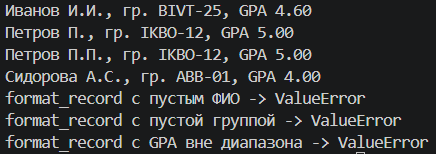
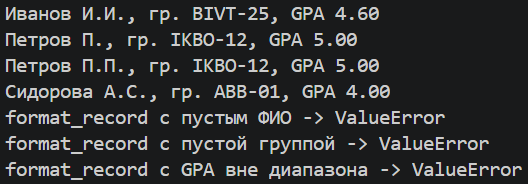
Выполнена лабораторная работа 2, доработано

diff --git a/src/lab02/matrix.py b/src/lab02/matrix.py
@@ -1,21 +1,23 @@
-def check_matrix(m):
-    c = len(m[0])
-    for i in range(len(m)):
-        if len(m[i]) != c:
-            raise ValueError
+def check_matrix(mat):
+    """Проверяет, что матрица прямоугольная (все строки одной длины). Иначе -> ValueError."""
+    c = len(mat[0])
+    for i in range(len(mat)):
+        if len(mat[i]) != c:
+            raise ValueError("матрица «рваная»")
 
 # === 1 ===
-def transpose(m):
-    if len(m) == 0:
+def transpose(mat: list[list[float | int]]) -> list[list]:
+    """Транспонирует матрицу (меняет строки и столбцы местами). Пустая матрица -> []."""
+    if len(mat) == 0:
         return []
-    check_matrix(m)
+    check_matrix(mat)
     t = []
-    num_rows = len(m)
-    num_cols = len(m[0])
+    num_rows = len(mat)
+    num_cols = len(mat[0])
     for j in range(num_cols):
         new_row = []
         for i in range(num_rows):
-            new_row.append(m[i][j])
+            new_row.append(mat[i][j])
         t.append(new_row)
     return t
 
@@ -23,64 +25,66 @@ def transpose(m):
 try:
     print("transpose([[1, 2, 3]]) ->", transpose([[1, 2, 3]]))
 except ValueError:
-    print("transpose([[1, 2, 3]]) -> ValueError")
+    print("transpose([[1, 2, 3]]) -> ValueError (матрица «рваная»)")
 
 try:
     print("transpose([[1], [2], [3]]) ->", transpose([[1], [2], [3]]))
 except ValueError:
-    print("transpose([[1], [2], [3]]) -> ValueError")
+    print("transpose([[1], [2], [3]]) -> ValueError (матрица «рваная»)")
 
 try:
     print("transpose([[1, 2], [3, 4]]) ->", transpose([[1, 2], [3, 4]]))
 except ValueError:
-    print("transpose([[1, 2], [3, 4]]) -> ValueError")
+    print("transpose([[1, 2], [3, 4]]) -> ValueError (матрица «рваная»)")
 
 try:
     print("transpose([]) ->", transpose([]))
 except ValueError:
-    print("transpose([]) -> ValueError")
+    print("transpose([]) -> ValueError (матрица «рваная»)")
 
 try:
     print("transpose([[1, 2], [3]]) ->", transpose([[1, 2], [3]]))
 except ValueError:
-    print("transpose([[1, 2], [3]]) -> ValueError")
+    print("transpose([[1, 2], [3]]) -> ValueError (матрица «рваная»)")
 
 
 # === 2 ===
-def row_sums(m):
-    check_matrix(m)
+def row_sums(mat: list[list[float | int]]) -> list[float]:
+    """Возвращает список сумм по каждой строке матрицы m."""
+    check_matrix(mat)
     result = []
-    for i in range(len(m)):
-        result.append(sum(m[i]))
+    for i in range(len(mat)):
+        result.append(sum(mat[i]))
     return result
 
 # Тест-кейсы
 try:
     print("row_sums([[1, 2, 3], [4, 5, 6]]) ->", row_sums([[1, 2, 3], [4, 5, 6]]))
 except ValueError:
-    print("row_sums([[1, 2, 3], [4, 5, 6]]) -> ValueError")
+    print("row_sums([[1, 2, 3], [4, 5, 6]]) -> ValueError (матрица «рваная»)")
 try:
     print("row_sums([[-1, 1], [10, -10]]) ->", row_sums([[-1, 1], [10, -10]]))
 except ValueError:
-    print("row_sums([[-1, 1], [10, -10]]) -> ValueError")
+    print("row_sums([[-1, 1], [10, -10]]) -> ValueError (матрица «рваная»)")
 try:
     print("row_sums([[0, 0], [0, 0]]) ->", row_sums([[0, 0], [0, 0]]))
 except ValueError:
-    print("row_sums([[0, 0], [0, 0]]) -> ValueError")
+    print("row_sums([[0, 0], [0, 0]]) -> ValueError (матрица «рваная»)")
 try:
     print("row_sums([[1, 2], [3]]) ->", row_sums([[1, 2], [3]]))
 except ValueError:
-    print("row_sums([[1, 2], [3]]) -> ValueError")
+    print("row_sums([[1, 2], [3]]) -> ValueError (матрица «рваная»)")
 
 
 # === 3 ===
-def col_sums(m):
-    check_matrix(m)
+def col_sums(mat: list[list[float | int]]) -> list[float]:
+    """Возвращает список сумм по каждому столбцу матрицы m."""
+    check_matrix(mat)
     result = []
-    for j in range(len(m[0])):
+    for j in range(len(mat[0])):
         sum_col = 0
-        for i in range(len(m)):
-            sum_col += m[i][j]
+        for i in range(len(mat)):
+            sum_col += mat[i][j]
         result.append(sum_col)
     return result
 
@@ -88,19 +92,19 @@ def col_sums(m):
 try:
     print("col_sums([[1, 2, 3], [4, 5, 6]]) ->", col_sums([[1, 2, 3], [4, 5, 6]]))
 except ValueError:
-    print("col_sums([[1, 2, 3], [4, 5, 6]]) -> ValueError")
+    print("col_sums([[1, 2, 3], [4, 5, 6]]) -> ValueError (матрица «рваная»)")
 
 try:
     print("col_sums([[-1, 1], [10, -10]]) ->", col_sums([[-1, 1], [10, -10]]))
 except ValueError:
-    print("col_sums([[-1, 1], [10, -10]]) -> ValueError")
+    print("col_sums([[-1, 1], [10, -10]]) -> ValueError (матрица «рваная»)")
 
 try:
     print("col_sums([[0, 0], [0, 0]]) ->", col_sums([[0, 0], [0, 0]]))
 except ValueError:
-    print("col_sums([[0, 0], [0, 0]]) -> ValueError")
+    print("col_sums([[0, 0], [0, 0]]) -> ValueError (матрица «рваная»)")
 
 try:
     print("col_sums([[1, 2], [3]]) ->", col_sums([[1, 2], [3]]))
 except ValueError:
-    print("col_sums([[1, 2], [3]]) -> ValueError")
+    print("col_sums([[1, 2], [3]]) -> ValueError (матрица «рваная»)")

diff --git a/src/lab02/arrays.py b/src/lab02/arrays.py
@@ -1,9 +1,10 @@
 # === 1 ===
-def min_max(m):
-    if not m:
-        raise ValueError("")
-    low = high = m[0]
-    for x in m:
+def min_max(nums: list[float | int]) -> tuple[float | int, float | int]:
+    """Возвращает (минимум, максимум) списка m. Пустой список -> ValueError."""
+    if not nums:
+        raise ValueError("список пуст")
+    low = high = nums[0]
+    for x in nums:
         if x < low:
             low = x
         if x > high:
@@ -14,32 +15,33 @@ def min_max(m):
 try:
     print("min_max([3, -1, 5, 5, 0]) ->", min_max([3, -1, 5, 5, 0]))
 except ValueError:
-    print("min_max([3, -1, 5, 5, 0]) -> ValueError")
+    print("min_max([3, -1, 5, 5, 0]) -> ValueError (список пуст)")
 
 try:
     print("min_max([42]) ->", min_max([42]))
 except ValueError:
-    print("min_max([42]) -> ValueError")
+    print("min_max([42]) -> ValueError (список пуст)")
 
 try:
     print("min_max([-5, -2, -9]) ->", min_max([-5, -2, -9]))
 except ValueError:
-    print("min_max([-5, -2, -9]) -> ValueError")
+    print("min_max([-5, -2, -9]) -> ValueError (список пуст)")
 
 try:
     print("min_max([]) ->", min_max([]))
 except ValueError:
-    print("min_max([]) -> ValueError")
+    print("min_max([]) -> ValueError (список пуст)")
 
 try:
     print("min_max([1.5, 2, 2.0, -3.1]) ->", min_max([1.5, 2, 2.0, -3.1]))
 except ValueError:
-    print("min_max([1.5, 2, 2.0, -3.1]) -> ValueError")
+    print("min_max([1.5, 2, 2.0, -3.1]) -> ValueError (список пуст)")
 
 
 # === 2 ===
-def unique_sorted(m):
-    m = list(set(m))
+def unique_sorted(nums: list[float | int]) -> list[float | int]:
+    """Возвращает отсортированный по возрастанию список уникальных значений m."""
+    m = list(set(nums))
     result = []
     a = m[:]
     for _ in range(len(a)):
@@ -59,18 +61,20 @@ print("unique_sorted([1.0, 1, 2.5, 2.5, 0]) ->", unique_sorted([1.0, 1, 2.5, 2.5
 
 
 # === 3 ===
-def check_matrix(m):
-    for row in m:
+def check_matrix(mat):
+    """Проверяет, что каждый элемент m — список или кортеж. Иначе -> TypeError."""
+    for row in mat:
         if not isinstance(row, (list, tuple)):
-            raise TypeError
+            raise TypeError("строка не является списком/кортежем")
 
-def flatten(m):
-    if not isinstance(m, list):
-        raise TypeError
+def flatten(mat: list[list | tuple]) -> list:
+    """Расплющивает список списков/кортежей в один плоский список (по строкам)."""
+    if not isinstance(mat, list):
+        raise TypeError("строка/элемент не является списком/кортежем")
     
-    check_matrix(m)
+    check_matrix(mat)
     result = []
-    for row in m:
+    for row in mat:
         for x in row:
             result.append(x)
     return result
@@ -79,19 +83,19 @@ def flatten(m):
 try:
     print("flatten([[1, 2], [3, 4]]) ->", flatten([[1, 2], [3, 4]]))
 except TypeError:
-    print("flatten([[1, 2], [3, 4]]) -> TypeError")
+    print("flatten([[1, 2], [3, 4]]) -> TypeError (строка/элемент не является списком/кортежем)")
 
 try:
     print("flatten([[1, 2], (3, 4, 5)]) ->", flatten([[1, 2], (3, 4, 5)]))
 except TypeError:
-    print("flatten([[1, 2], (3, 4, 5)]) -> TypeError")
+    print("flatten([[1, 2], (3, 4, 5)]) -> TypeError (строка/элемент не является списком/кортежем)")
 
 try:
     print("flatten([[1], [], [2, 3]]) ->", flatten([[1], [], [2, 3]]))
 except TypeError:
-    print("flatten([[1], [], [2, 3]]) -> TypeError")
+    print("flatten([[1], [], [2, 3]]) -> TypeError (строка/элемент не является списком/кортежем)")
 
 try:
     print("flatten([[1, 2], 'ab']) ->", flatten([[1, 2], "ab"]))
 except TypeError:
-    print("flatten([[1, 2], 'ab']) -> TypeError")
+    print("flatten([[1, 2], 'ab']) -> TypeError (строка/элемент не является списком/кортежем)")

diff --git a/src/lab02/tuples.py b/src/lab02/tuples.py
@@ -1,5 +1,5 @@
-def format_record(inicial):
-    inicials = list(inicial)
+def format_record(rec: tuple[str, str, float]) -> str:
+    inicials = list(rec)
     gpa = inicials[2]
     fio1 = inicials[0].split()
     class_stud = inicials[1].strip()
